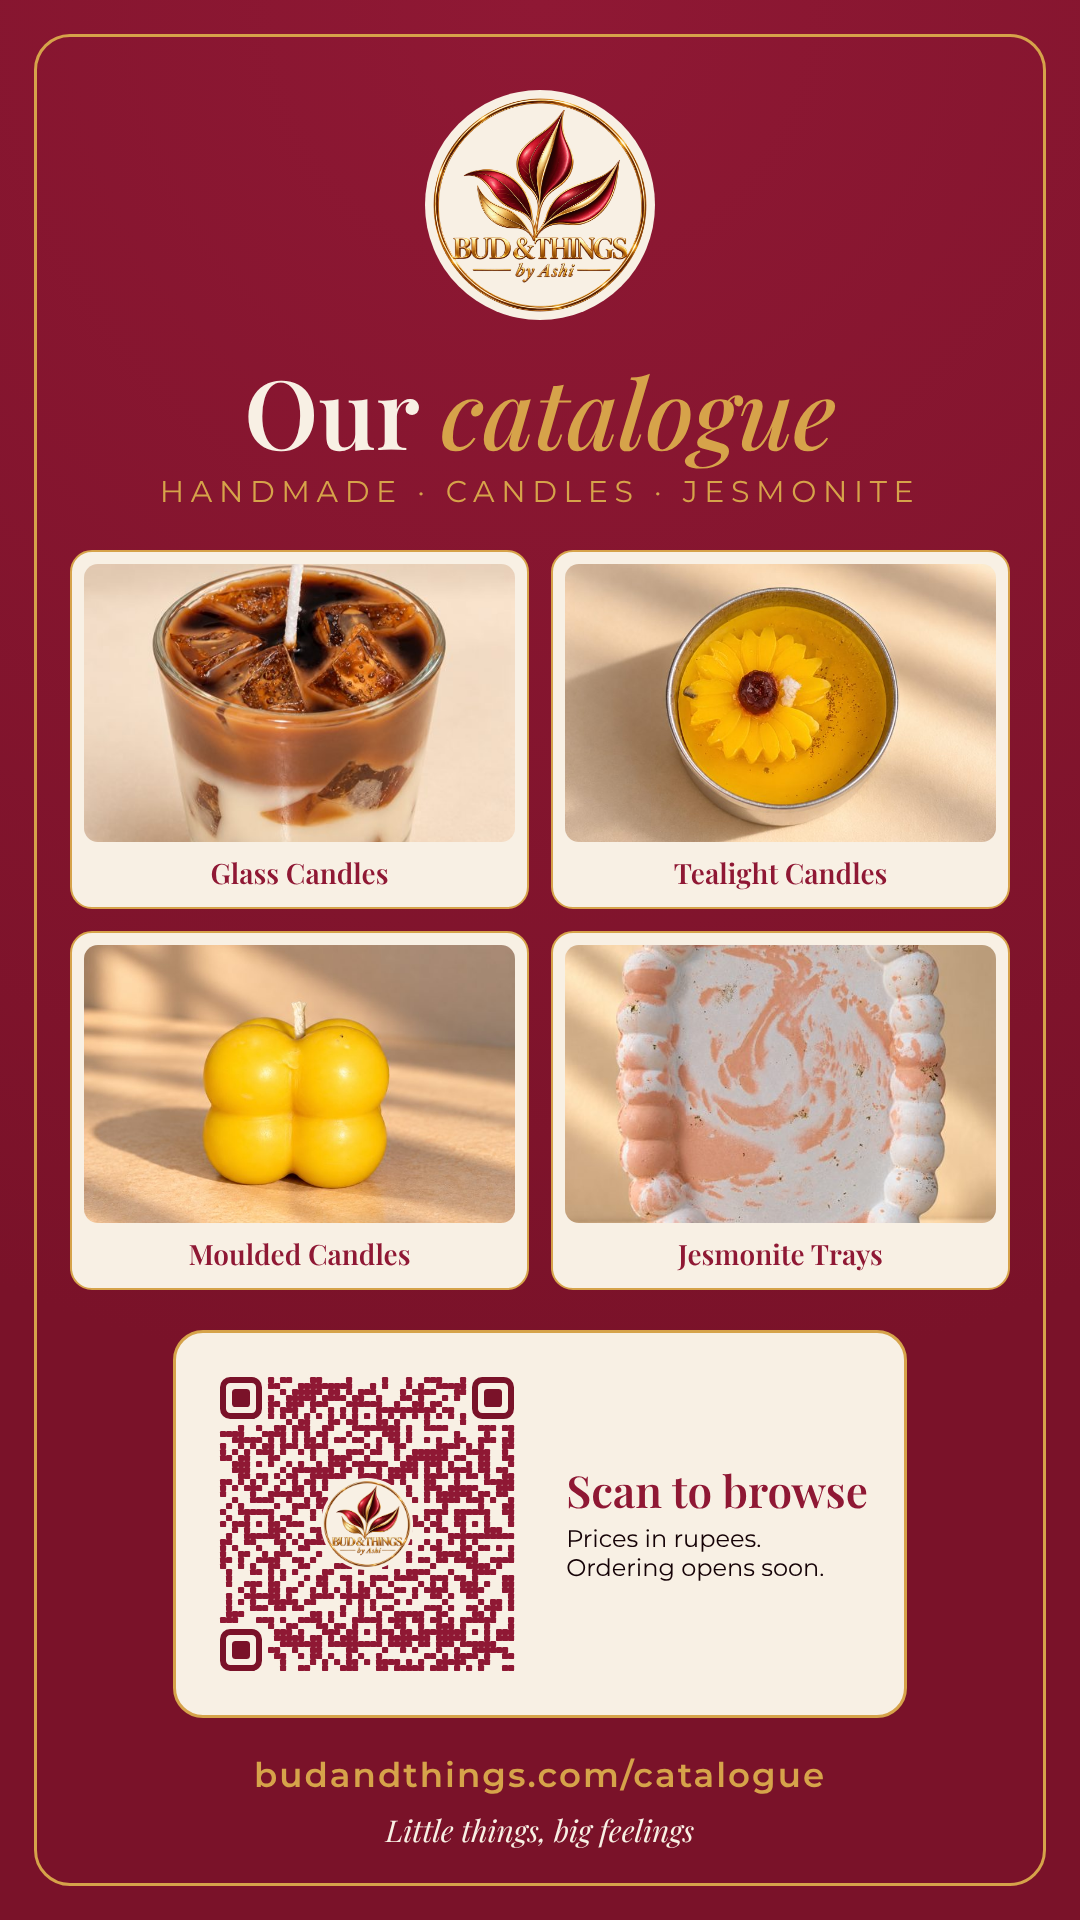
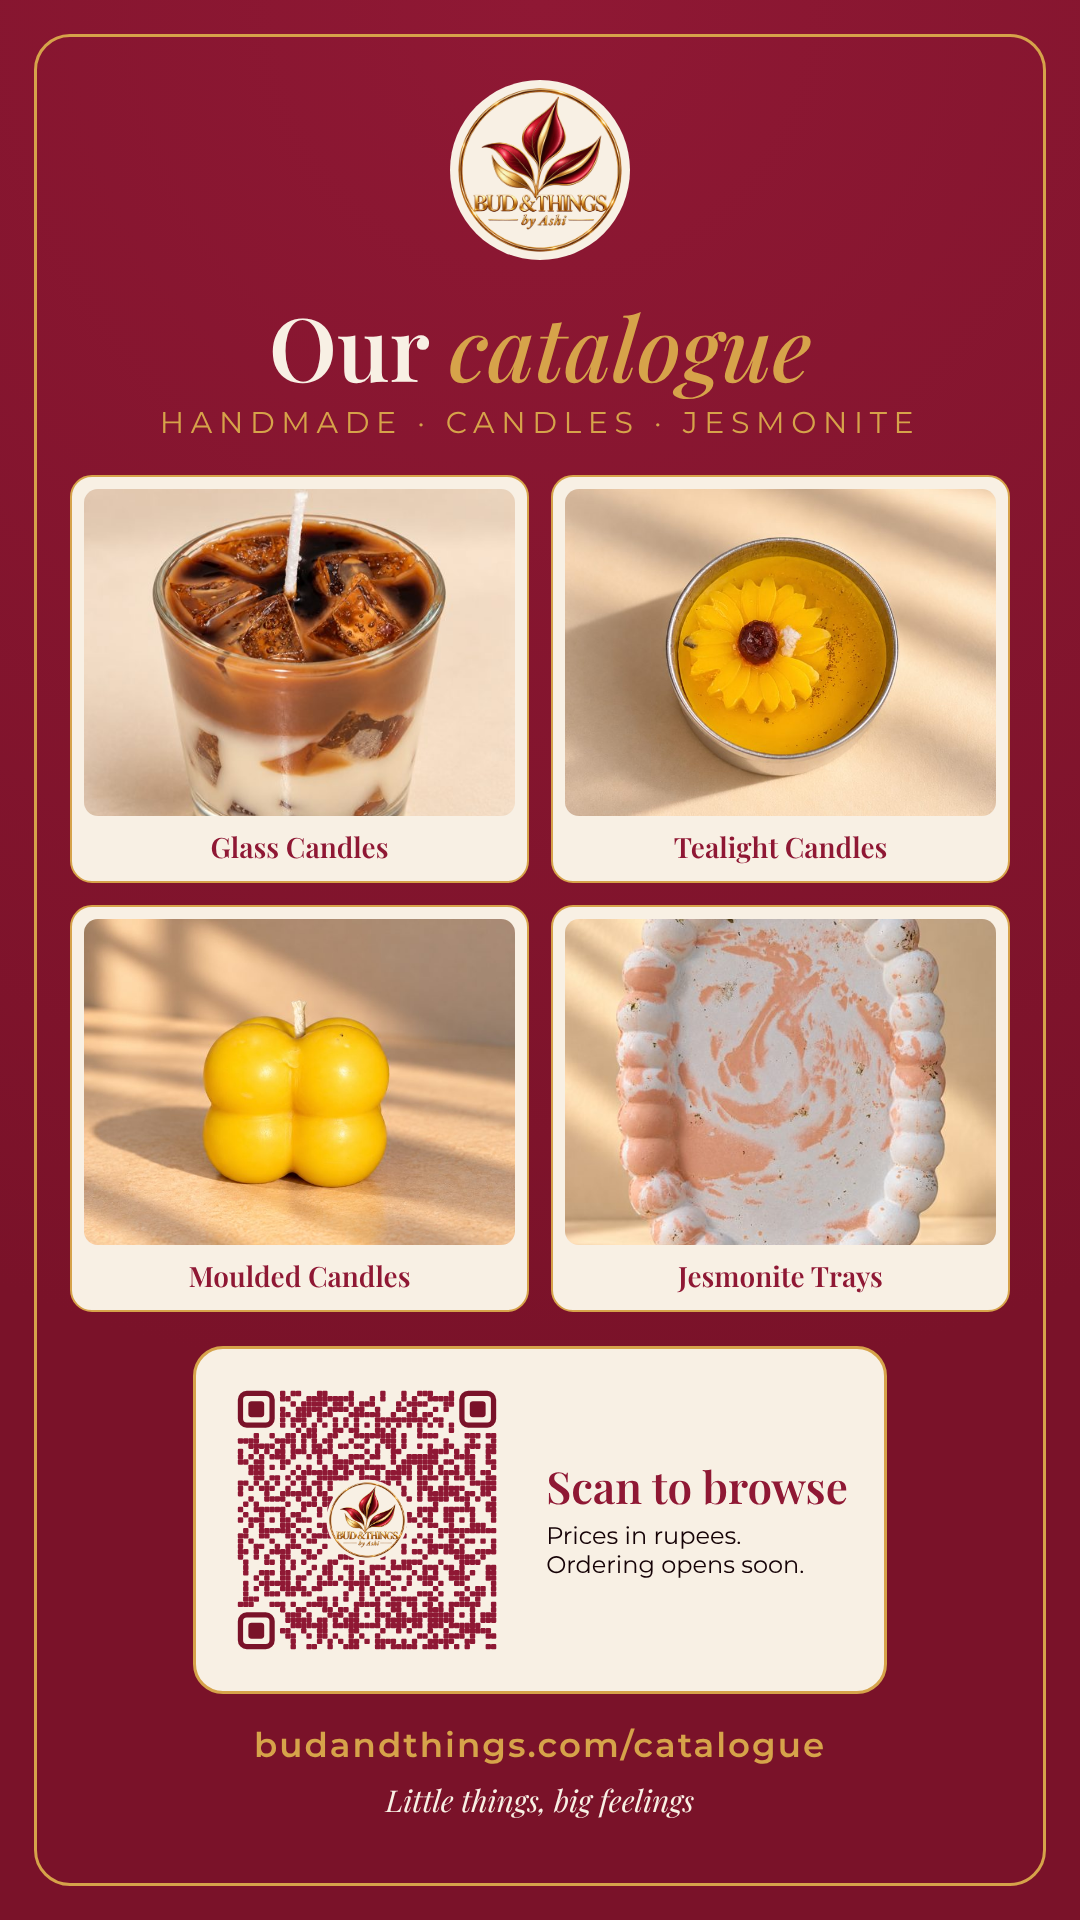
Story card: show whole product photos, fix bottom overflow
Claude-Session: https://claude.ai/code/session_0138kv1XqSEt6htgcRfav1Q6

Changed region(s): [[0.0611, 0.0312, 0.9472, 0.5625], [0.0611, 0.625, 0.9472, 0.9688], [0.6722, 0.5625, 0.7028, 0.5938]]

diff --git a/bud-and-things/tools/build-share.py b/bud-and-things/tools/build-share.py
@@ -60,21 +60,21 @@ body{{font-family:Montserrat,sans-serif;color:{CREAM}}}
 .pl{{font-family:'Playfair Display',serif}}"""
 
 story = f"""<style>{BASE}
-body{{width:1080px;height:1920px;background:radial-gradient(circle at 50% 0%,{MAROON} 0%,{MAROON_D} 70%);padding:90px 70px;text-align:center;position:relative;overflow:hidden;border:0}}
+body{{width:1080px;height:1920px;background:radial-gradient(circle at 50% 0%,{MAROON} 0%,{MAROON_D} 70%);padding:80px 70px;text-align:center;position:relative;overflow:hidden;border:0}}
 .frame{{position:absolute;inset:34px;border:3px solid {GOLD};border-radius:36px;pointer-events:none}}
-.emb{{width:230px;height:230px;border-radius:50%;background:{CREAM};padding:8px}}
-h1{{font:600 96px/1.05 'Playfair Display',serif;margin:36px 0 12px;color:{CREAM}}}
+.emb{{width:180px;height:180px;border-radius:50%;background:{CREAM};padding:8px}}
+h1{{font:600 88px/1.05 'Playfair Display',serif;margin:36px 0 12px;color:{CREAM}}}
 h1 i{{color:{GOLD};font-weight:500}}
 .sub{{font-size:30px;letter-spacing:.22em;text-transform:uppercase;color:{GOLD}}}
-.tiles{{display:grid;grid-template-columns:repeat(2,1fr);gap:22px;margin:40px 0 40px}}
+.tiles{{display:grid;grid-template-columns:repeat(2,1fr);gap:22px;margin:34px 0 34px}}
 figure{{background:{CREAM};border-radius:22px;padding:12px 12px 16px;border:2px solid {GOLD}}}
-figure img{{width:100%;aspect-ratio:1.55;object-fit:cover;border-radius:14px;display:block}}
+figure img{{width:100%;aspect-ratio:1.32;object-fit:cover;border-radius:14px;display:block}}
 figcaption{{font:600 28px 'Playfair Display',serif;color:{MAROON};margin-top:12px}}
 .qrbox{{display:inline-flex;align-items:center;gap:34px;background:{CREAM};border-radius:30px;padding:26px 36px 26px 26px;border:3px solid {GOLD};text-align:left}}
-.qrbox img{{width:330px;height:330px;border-radius:12px}}
+.qrbox img{{width:290px;height:290px;border-radius:12px}}
 .qrbox b{{display:block;font:600 44px/1.1 'Playfair Display',serif;color:{MAROON}}}
 .qrbox span{{display:block;color:{INK};font-size:24px;margin-top:10px}}
-.url{{margin-top:36px;font-size:34px;letter-spacing:.06em;color:{GOLD};font-weight:600}}
+.url{{margin-top:30px;font-size:34px;letter-spacing:.06em;color:{GOLD};font-weight:600}}
 .tag{{margin-top:14px;font:italic 400 30px 'Playfair Display',serif;color:{CREAM}}}
 </style><body><div class="frame"></div>
 <img class="emb" src="{EMBLEM}">
